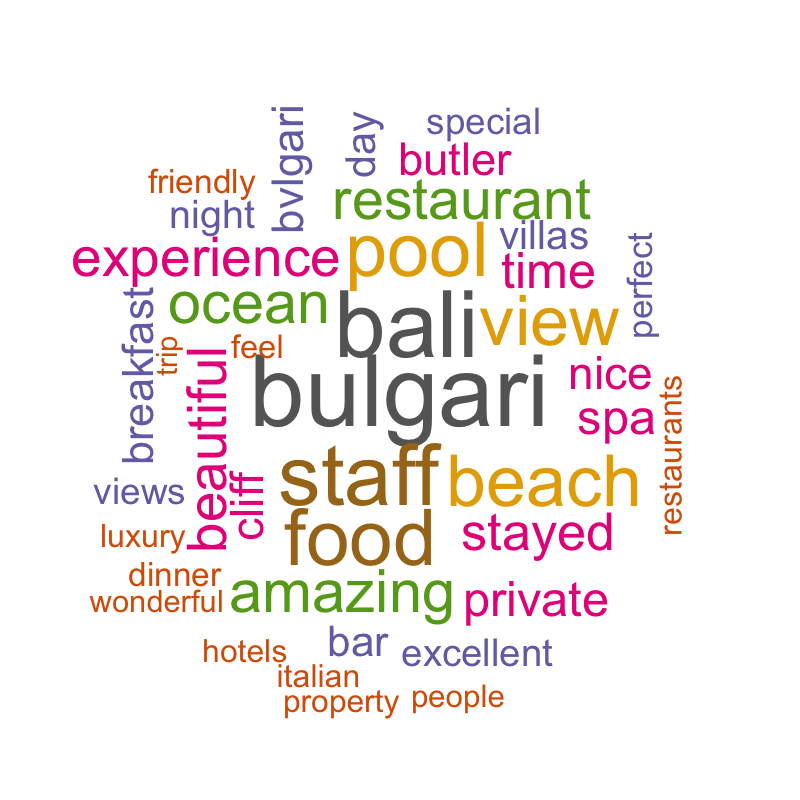
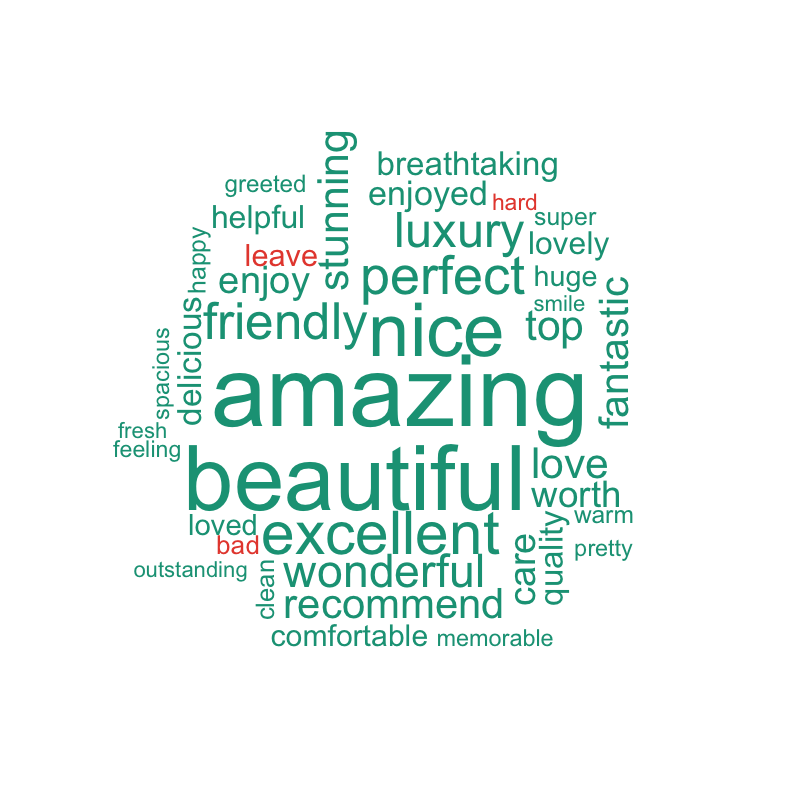
feat(viz): implement sentiment-based word cloud
Update the word cloud generation to focus exclusively on sentiment-carrying words using the AFINN lexicon. This replaces the previous frequency-based approach which included neutral topic words.

Key changes:
- Filter tokens to include only words with non-zero AFINN sentiment scores.
- Exclude domain-specific neutral words (e.g., "lobby", "hotel", "resort") to reduce noise.
- Implement color-coding in the word cloud (green for positive, red for negative).
- Update `04_visualization.R`, the Colab notebook, and `README.md` to reflect the new logic.
- Add a regression test in `tests/test_data_wiring.py` to ensure the sentiment-based logic is preserved.

Changed region(s): [[0.0938, 0.125, 0.875, 0.9062]]

diff --git a/tests/test_data_wiring.py b/tests/test_data_wiring.py
@@ -139,6 +139,17 @@ class DataWiringTests(unittest.TestCase):
         self.assertIn("geom_text(aes(label = review_count)", script)
         self.assertIn("geom_text(aes(label = format(score, big.mark = \",\"))", script)
 
+    def test_visualization_word_cloud_uses_only_sentiment_words(self):
+        script = (PROJECT_ROOT / "04_visualization.R").read_text()
+        self.assertIn("sentiment_lexicon_words", script)
+        self.assertIn("sentiment_word_counts", script)
+        self.assertIn("domain_neutral_words", script)
+        self.assertIn('syuzhet::get_sentiment(word, method = "afinn")', script)
+        self.assertIn("filter(sentiment_score != 0)", script)
+        self.assertIn("filter(!word %in% domain_neutral_words)", script)
+        self.assertIn("ordered.colors = TRUE", script)
+        self.assertNotRegex(script, r"(?m)^word_counts <- cleaned_tokens")
+
     def test_visualization_bins_sentiment_by_rating(self):
         script = (PROJECT_ROOT / "04_visualization.R").read_text()
         self.assertIn("rating_group", script)

diff --git a/README.md b/README.md
@@ -64,7 +64,7 @@ Convert numbers and scores into high-impact visuals:
 * **Sentiment Distribution**: Count how many reviews are positive, neutral, or negative.
 * **Rating vs. Sentiment Boxplot**: Group reviews by 1-star to 5-star TripAdvisor rating and compare the written text sentiment inside each rating group. The dashed line shows the hotel's average TripAdvisor rating, and the diamonds show average text sentiment per rating group.
 * **Emotion Breakdown**: Compare emotion categories such as joy, trust, anger, fear, and sadness.
-* **Word Cloud**: Instantly spot dominant topics (e.g., "authentic", "friendly" vs. "queue", "expensive").
+* **Sentiment Word Cloud**: Instantly spot the most repeated AFINN-scored sentiment words. Neutral topic words are intentionally excluded, so the cloud focuses on words such as "beautiful", "friendly", "excellent", or "bad".
 * **Monthly Sentiment Heatmap**: Read the calendar pattern quickly. Each tile is one month in one year, colored by average sentiment and labeled with the number of reviews.
 * **Monthly Rolling Trend**: Follow the sentiment trend over time. The blue line smooths monthly sentiment using a 6-month rolling average, and the dotted line compares each month to the average of all earlier reviews.
 * **Quarterly Boxplot**: Summarize review sentiment spread for each quarter. This is less noisy than monthly boxplots because each quarter usually has more reviews.